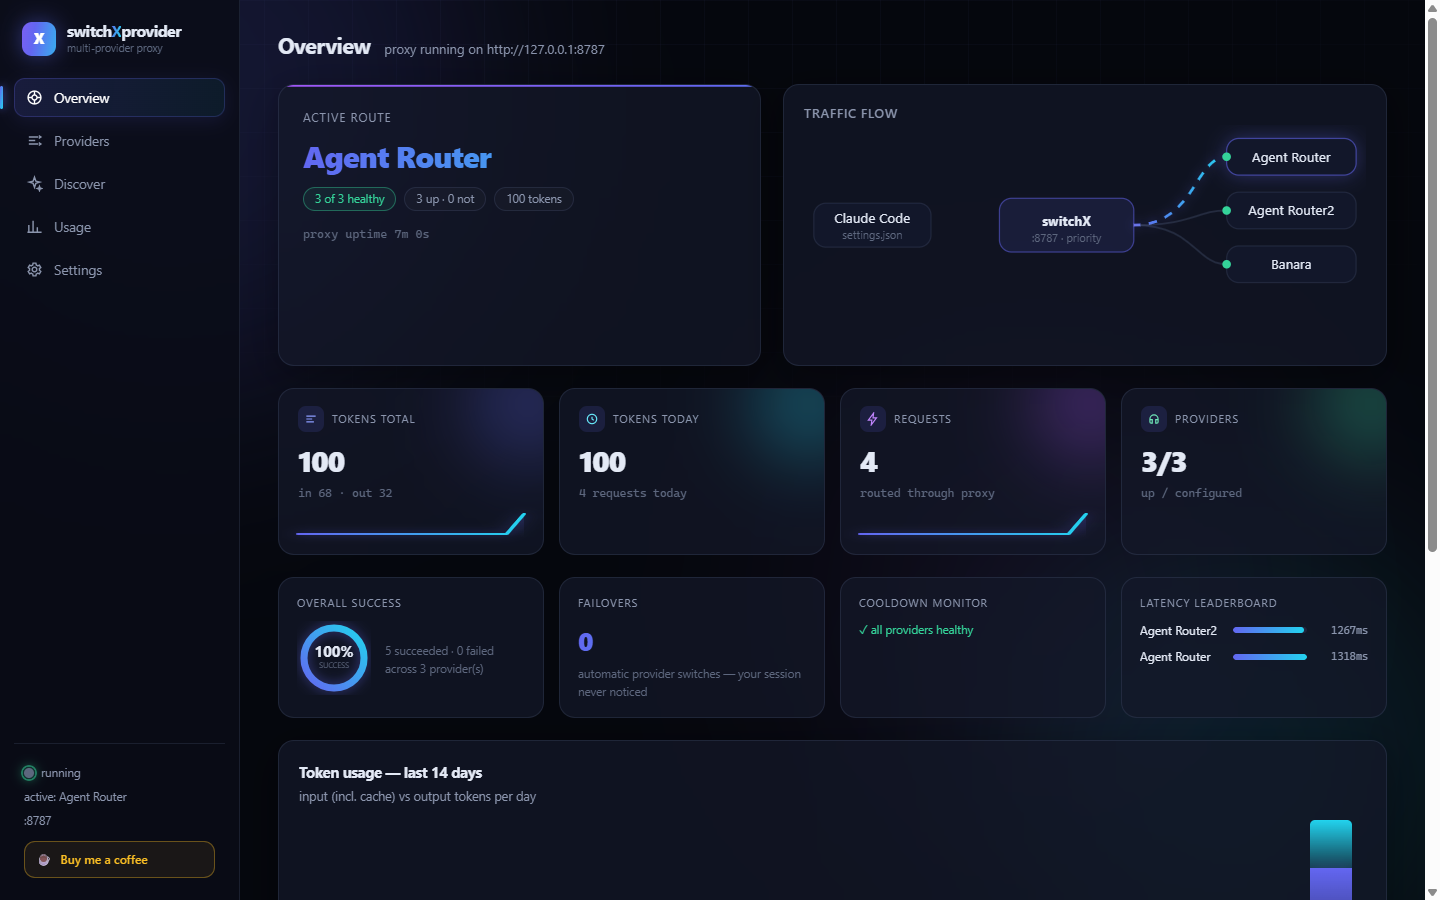
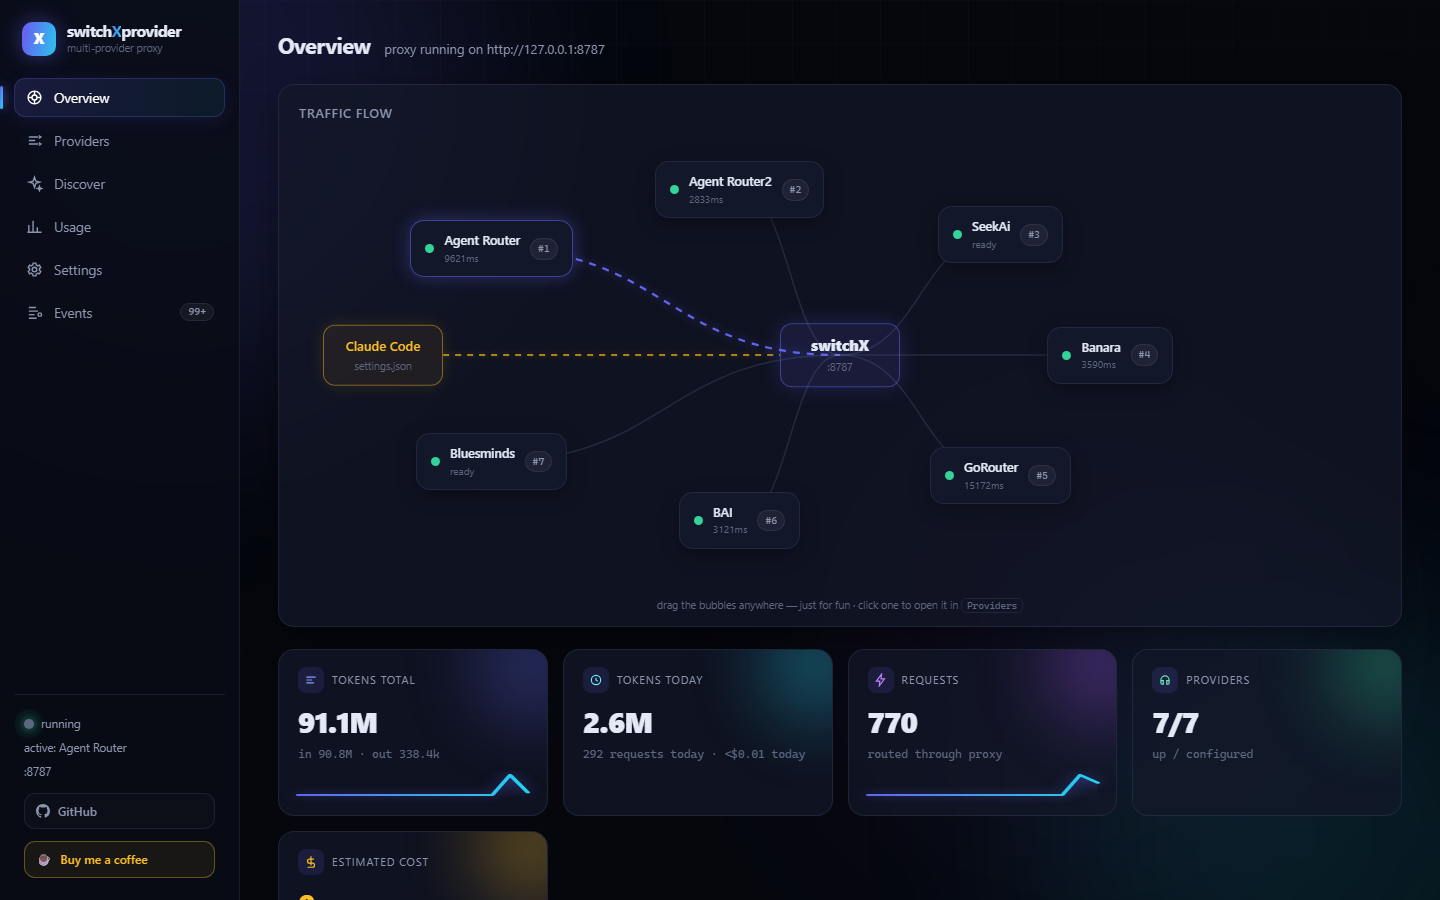
Refresh all dashboard screenshots and add the Events view
Captured from the live v0.1.5 dashboard at 1440x900: overview now shows
the bubble flow playground and cost stat card, providers show the Test
all button, usage shows the est. cost column, and the new Events view
joins the screenshot table.

diff --git a/README.md b/README.md
@@ -16,9 +16,13 @@ A Claude Code plugin that acts as a local API router — an alternative to OmniR
 |---|---|
 | ![Providers](docs/screenshots/providers.png) | ![Discover](docs/screenshots/discover.png) |
 
-| Usage — per provider & model | Settings |
+| Usage — per provider & model, estimated cost | Events — failovers, recoveries |
 |---|---|
-| ![Usage](docs/screenshots/usage.png) | ![Settings](docs/screenshots/settings.png) |
+| ![Usage](docs/screenshots/usage.png) | ![Events](docs/screenshots/events.png) |
+
+| Settings |
+|---|
+| ![Settings](docs/screenshots/settings.png) |
 
 </details>
 
